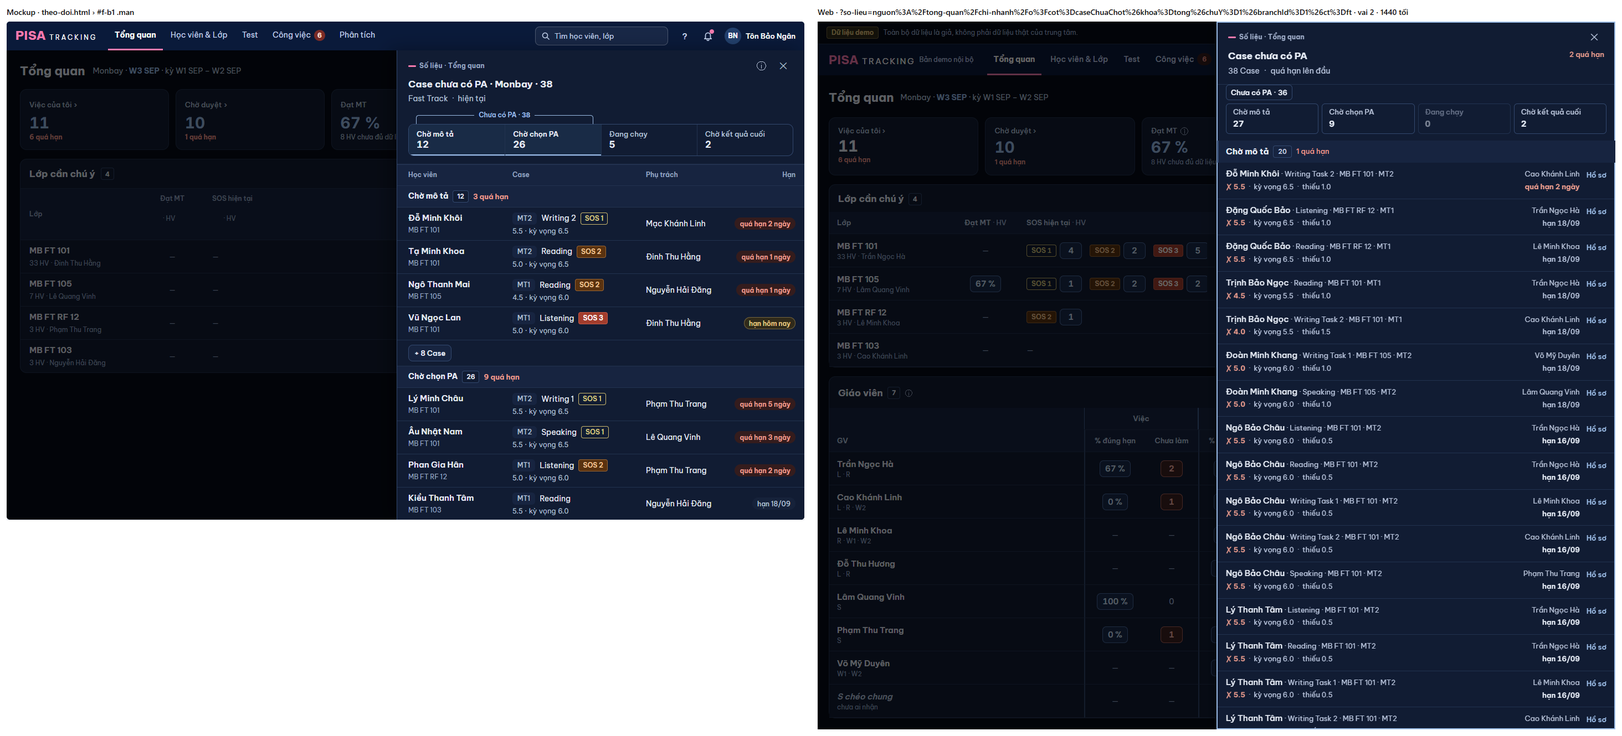
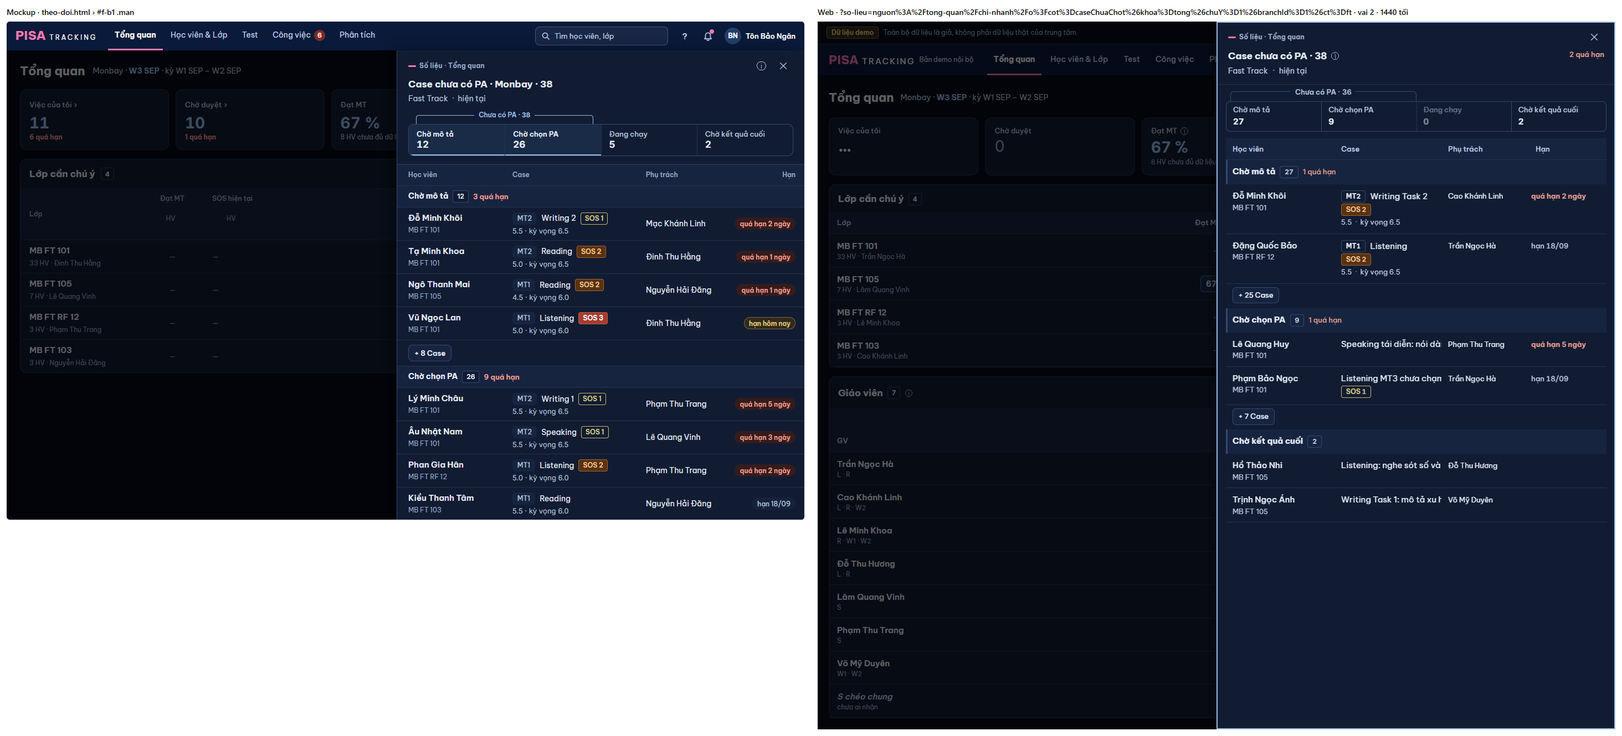
GD-21: panel Case dạng bảng chuẩn như mockup ⑬ (cột Case, ngoặc Chưa có PA, + n Case), không bật sẵn bước

diff --git a/web/src/ui/SoLieu.tsx b/web/src/ui/SoLieu.tsx
@@ -12,6 +12,7 @@ import { CanLam, DiemKq, NutChu, NutHoanTac } from './KhuonViec.tsx';
 import { lopKq } from './BieuTuong.tsx';
 import { CHIP_SOS, CHIP_VUONG, ChipHan, ChipSoQuaHan, lopSos } from './Nhan.tsx';
 import { XemThem, useXemThem } from './PhanTrang.tsx';
+import { Bang, OBang, type CotBang } from './Bang.tsx';
 import { Empty, ErrorState, Skeleton } from './ui.tsx';
 import { useNgayNghiepVu } from './ngayNghiepVu.ts';
 import { NutLuat } from './NutLuat.tsx';
@@ -157,35 +158,36 @@ function HanDong({ han, loai }: { han: string; loai?: DeadlineKind | null }) {
  * GD-21 (mockup ⑬ B1): DẢI BƯỚC của panel Case — bốn bước (tên trên, số dưới, màu thường — chủ SP 15/11: không tô số) + ngoặc "Chưa có PA" trùm hai bước đầu.
  * Bấm bước để bật / tắt lọc (nhiều bước cùng lúc); "Bỏ lọc bước" trả về bộ lọc của nguồn mở. Số = số Case còn chờ ở bước đó, tính trên dữ liệu đã nạp (0 request).
  */
-function DaiBuoc({ hien, loc, macDinh, khacNguon, soLoc, datLoc }: {
-  hien: (DongSoLieu & { xong?: string })[]; loc: BuocCase[]; macDinh: BuocCase[]; khacNguon: boolean; soLoc: number; datLoc: (b: BuocCase[] | null) => void;
+function DaiBuoc({ hien, loc, soLoc, datLoc }: {
+  hien: (DongSoLieu & { xong?: string })[]; loc: BuocCase[]; soLoc: number; datLoc: (b: BuocCase[] | null) => void;
 }) {
   const so = (b: BuocCase) => hien.filter((r) => !r.xong && buocCuaDong(r) === b).length;
   const bat = (b: BuocCase) => loc.includes(b);
   const bam = (b: BuocCase) => datLoc(bat(b) ? loc.filter((x) => x !== b) : [...loc, b]);
   const dauHai = BUOC_CASE.slice(0, 2);
   const chuaPa = dauHai.every(bat) && loc.length === 2;
-  const nut = 'flex min-h-[44px] min-w-0 appearance-none flex-col items-start justify-center gap-0.5 rounded-md border px-3 py-1.5 text-left sm:min-h-[52px]';
+  const tong = so(dauHai[0]) + so(dauHai[1]);
   return (
     <div className="mb-3">
-      <div className="mb-1.5 flex min-h-[28px] flex-wrap items-center gap-2 text-[13px]">
+      {/* Ngoặc "Chưa có PA" trùm hai bước đầu (⑬ B1): viền mảnh, chữ giữa đường viền trên; "Bỏ lọc bước" ở hàng ngoặc, chỉ khi đang lọc. */}
+      <div className="relative mx-2 mb-0 mt-3 h-[18px] w-[calc(50%-0.5rem)] rounded-t-md border border-b-0" style={{ borderColor: chuaPa ? 'var(--accent)' : 'var(--line-strong)' }}>
         <button type="button" aria-pressed={chuaPa} onClick={() => datLoc(chuaPa ? [] : [...dauHai])}
-          className={`inline-flex min-h-[28px] appearance-none items-center gap-1 rounded-md border px-2 font-semibold max-sm:min-h-[44px] ${chuaPa ? 'border-[color:var(--accent)] bg-[color:var(--accent-soft)]' : ''}`}
-          style={chuaPa ? undefined : { borderColor: 'var(--line-strong)', background: 'transparent' }}>
-          {t('Chưa có PA')} · <span className="tabular-nums">{so(dauHai[0]) + so(dauHai[1])}</span>
+          className={`absolute left-1/2 top-0 inline-flex min-h-[28px] -translate-x-1/2 -translate-y-1/2 appearance-none items-center whitespace-nowrap border-0 bg-[color:var(--surface)] px-2 text-[13px] font-semibold max-sm:min-h-[44px] ${chuaPa ? 'text-[color:var(--accent)]' : 'text-slate-300'}`}>
+          {t('Chưa có PA')} · <span className="ml-1 tabular-nums">{tong}</span>
         </button>
-        {khacNguon && <button type="button" className="link appearance-none border-0 bg-transparent p-0 max-sm:min-h-[44px]" onClick={() => datLoc(null)}>{t('Bỏ lọc bước')}</button>}
+        {loc.length > 0 && <button type="button" className="link absolute left-[calc(200%+0.5rem)] top-0 -translate-y-1/2 appearance-none whitespace-nowrap border-0 bg-transparent p-0 text-[13px] max-sm:min-h-[44px]" onClick={() => datLoc(null)}>{t('Bỏ lọc bước')}</button>}
       </div>
-      <div role="group" aria-label={t('Lọc theo bước')} className="grid grid-cols-2 gap-1.5 sm:grid-cols-4">
-        {BUOC_CASE.map((b) => (
-          <button key={b} type="button" aria-pressed={bat(b)} disabled={!so(b)} onClick={() => bam(b)} className={`${nut} disabled:opacity-50`}
-            style={bat(b) ? { borderColor: 'var(--accent)', background: 'var(--accent-soft)' } : { borderColor: 'var(--line-strong)', background: 'transparent' }}>
+      <div role="group" aria-label={t('Lọc theo bước')} className="grid grid-cols-2 overflow-hidden rounded-lg border sm:grid-cols-4" style={{ borderColor: 'var(--line-strong)' }}>
+        {BUOC_CASE.map((b, i) => (
+          <button key={b} type="button" aria-pressed={bat(b)} disabled={!so(b)} onClick={() => bam(b)}
+            className={`flex min-h-[44px] min-w-0 appearance-none flex-col items-start justify-center gap-0.5 border-0 px-3 py-1.5 text-left disabled:opacity-50 sm:min-h-[52px] ${i % 2 ? 'max-sm:border-l' : ''} ${i > 0 ? 'sm:border-l' : ''} ${i > 1 ? 'max-sm:border-t' : ''}`}
+            style={{ borderColor: 'var(--line-strong)', background: bat(b) ? 'var(--accent-soft)' : 'transparent', boxShadow: bat(b) ? 'inset 0 -2px 0 var(--accent)' : undefined }}>
             <span className="text-[13px] font-medium leading-tight text-slate-300">{NHAN_BUOC_CASE[b]}</span>
             <span className="text-[15px] font-bold tabular-nums text-slate-100">{so(b)}</span>
           </button>
         ))}
       </div>
-      {khacNguon && loc.length > 0 && (
+      {loc.length > 0 && (
         <p className="m-0 mt-1.5 text-[13px] text-slate-400" role="status">{t('Đang lọc: {buoc} · {n}', { buoc: loc.map((b) => NHAN_BUOC_CASE[b]).join(' · '), n: soLoc })}</p>
       )}
     </div>
@@ -213,6 +215,13 @@ const doanDiem = (d: NonNullable<DongSoLieu['diemCase']>): ReactNode[] => [
 /* Việc dài của dòng (Ngăn Case, Nhập điểm, Vận hành) chỉ tải khi bấm — trang có ô số không kéo cả cây panel làm việc vào lần tải đầu. */
 const LamDongSoLieu = lazyTai(() => import('../modules/worklist/LamDongSoLieu.tsx').then((m) => ({ default: m.LamDongSoLieu })));
 
+
+/** GD-21: hàng của bảng Case theo bước — dải nhóm (bước) hoặc một Case. */
+type HangCase = { k: string; ten: string; conCho: number; tre: number } | { k: string; r: DongSoLieu & { xong?: string } } | { k: string; them: number; nhom: string };
+const COT_CASE: readonly CotBang[] = [
+  { key: 'hv', nhan: t('Học viên'), kieu: 'ten', rong: 196 }, { key: 'case', nhan: t('Case'), kieu: 'chu', linhHoat: true },
+  { key: 'gv', nhan: t('Phụ trách'), kieu: 'chu', rong: 150 }, { key: 'han', nhan: t('Hạn'), kieu: 'chip', rong: 148 },
+];
 
 /**
  * PANEL DANH SÁCH CỦA MỘT CON SỐ — hệ panel v3 (OV-12e, P12, mockup v3 §10). Đầu: tên số liệu + "n quá hạn" / "n Case · quá hạn lên đầu".
@@ -253,12 +262,10 @@ export function NganDanhSach({ nguon, tieuDe, dv, data, loading, error, reload, 
   const goc = data?.rows ?? [];
   /* M6 6b-2: dòng có nhóm (ô "Case chưa chốt PA") → danh sách theo nhóm, bấm dòng mở view Case; dòng vừa xử lý GIỮ nhóm gốc (không nhảy mắt). */
   const nhomCase = goc.some((r) => r.nhom || r.buoc);
-  /* GD-21 (⑬ H8): dải bước — nguồn "chưa có PA" bật sẵn hai bước đầu (chỉ khi đúng mọi dòng của nguồn); nguồn khác không bước nào. */
-  const chuaPa = /[?&]cot=(caseChuaChot|case-chua-pa)(&|$)/.test(nguon ?? '');
-  const macDinh: BuocCase[] = chuaPa && goc.length > 0 && goc.every((r) => ['cho-mo-ta', 'cho-chon-pa'].includes(buocCuaDong(r))) ? ['cho-mo-ta', 'cho-chon-pa'] : [];
+  /* GD-21 (⑬ H8, PTA Plan chốt): panel mở từ ô nào thì ĐÚNG tập Case của ô đó; dải bước chỉ lọc thêm, không bật sẵn bước nào. */
   const [locChon, datLoc] = useState<BuocCase[] | null>(null);
-  const loc = locChon ?? macDinh;
-  const khacNguon = loc.length !== macDinh.length || loc.some((b) => !macDinh.includes(b));
+  const loc = locChon ?? [];
+  const [moRong, datMoRong] = useState<string[]>([]);   // nhóm bước đã bấm "+ n Case"
   const xep = [...goc.filter(tre), ...goc.filter((r) => !tre(r))];   // quá hạn lên đầu, giữ thứ tự máy chủ trong từng nhóm
   const hien: (DongSoLieu & { xong?: string })[] = nhomCase
     ? xep.map((r) => { const g = giu.get(r.id); return g ? { ...r, nhom: g.dong.nhom, xong: g.chu } : r; })
@@ -355,57 +362,68 @@ export function NganDanhSach({ nguon, tieuDe, dv, data, loading, error, reload, 
     </Link>
   );
 
-  /* M6 6b-2 (mockup ① view gốc): dòng Case = một nút — em 15 / 500 · tên Case; lớp · việc tiếp 13; cột phải người giữ việc ("Bạn") + hạn. Bấm → view Case. */
-  const veDongCase = (r: DongSoLieu & { xong?: string }) => {
-    const v = r.viec ?? null;
-    const chon = mo === r.id;
+  /* GD-21 (⑬ B1, PTA Plan): bảng chuẩn `Bang` — Học viên (link, lớp ở dòng phụ) · Case (lượt · kỹ năng · SOS + điểm so kỳ vọng) · Phụ trách · Hạn; dải nhóm theo bước
+     (nền surface-2, chữ "Chờ mô tả · n · m quá hạn", vạch trung tính). Bấm dòng → view Case trong cùng panel. 375: thẻ. */
+  const veNhom = (dong: (DongSoLieu & { xong?: string })[]) => {
+    /* ⑬ B1: mỗi nhóm hiện vài dòng đầu rồi nút "+ n Case" (mở hết nhóm đó) — chọn một bước: 5 dòng, nhiều bước: 4, không chọn: 2. Dòng đang mở luôn hiện. */
+    const toiDa = loc.length === 1 ? 5 : loc.length ? 4 : 2;
+    const hang: HangCase[] = (nhom ?? []).map((g0) => ({ ...g0, dong: g0.dong.filter((r) => dong.includes(r)) })).filter((g) => g.dong.length > 0)
+      .flatMap((g) => {
+        const du = moRong.includes(g.buoc), hien = du ? g.dong : g.dong.filter((r, i) => i < toiDa || r.id === mo);
+        return [{ k: `b:${g.buoc}`, ten: g.ten, conCho: g.dong.filter((r) => !r.xong).length, tre: g.dong.filter((r) => !r.xong && tre(r)).length } as HangCase,
+          ...hien.map((r) => ({ k: `c:${r.id}`, r }) as HangCase),
+          ...(g.dong.length > hien.length ? [{ k: `m:${g.buoc}`, them: g.dong.length - hien.length, nhom: g.buoc } as HangCase] : [])];
+      });
+    const thuChon = (r: DongSoLieu) => (e: React.KeyboardEvent) => { if (e.key === 'Enter' && e.target === e.currentTarget) moCase(r); };
     return (
-      <li key={r.id} data-dong={r.id} className="flex scroll-mt-12 border-t first:border-t-0" style={{ borderColor: 'var(--line)', ...(chon ? { background: 'var(--accent-soft)', boxShadow: 'inset 3px 0 0 var(--accent)' } : {}) }}>
-        <button type="button" aria-current={chon || undefined} onClick={() => moCase(r)}
-          className="flex min-h-[44px] min-w-0 flex-1 appearance-none flex-col gap-0.5 border-0 bg-transparent py-2.5 pl-4 pr-1 text-left hover:bg-[color:var(--accent-soft)]">
-          <span className="flex w-full items-baseline gap-3">
-            <span className={`min-w-0 flex-1 text-[15px] font-medium leading-snug ${r.xong ? 'text-slate-300' : 'text-slate-100'}`}>
-              {/* 6c-2 (mockup khu K ②): dòng 1 = em · Case · lớp · lượt; dòng 2 chỉ điểm. */}
-              {r.em?.ten ?? r.title}
-              {/* " · ": "·" dính chữ trước (không đứng đầu dòng ở 375); lớp, lượt không ngắt giữa ("MB FT 101"); tên Case dài được xuống dòng. */}
-              <span className="text-[13px] font-normal text-slate-400">{[r.em && r.title, r.lop, r.diemCase?.luot].filter(Boolean).map((x, i) => (
-                <Fragment key={i}><span aria-hidden>{' · '}</span><span className="sr-only">, </span><span className={x === r.title ? undefined : 'whitespace-nowrap'}>{x}</span></Fragment>
-              ))}</span>
-            </span>
-            {/* Người giữ việc (khu K ③): "Bạn" khi chính người xem phụ trách; không thì tên người phụ trách. */}
-            <span className="shrink-0 text-right text-[13px] text-slate-300">{r.nguoiId != null && r.nguoiId === toi ? <b className="font-semibold">{t('Bạn')}</b> : r.nguoi ?? t('Chưa có người phụ trách')}</span>
-          </span>
-          <span className="flex w-full flex-wrap items-center gap-x-3 gap-y-1">
-            <span className="min-w-0 flex-1 text-[13px] leading-snug text-slate-400">
-              {/* 6c-2 (#632 XM-1, mockup khu K ②): dòng 2 = "✗ 5.5 · kỳ vọng 6.5 · thiếu 1.0" (✓ / ✗ + chữ, không chỉ màu); mỗi đoạn không ngắt giữa (375).
-                  Không tên việc / tình trạng — dải nhóm đã nói bước. */}
-              {r.xong ? <b className="font-semibold text-ok">✓ {r.xong}</b>
-                : r.diemCase && <Doan ds={doanDiem(r.diemCase)} />}
-            </span>
-            {!r.xong && v?.loaiHan && v.han ? <ChipHan loai={v.loaiHan} han={v.han} /> : null}
-          </span>
-        </button>
-        {nutHoSo(r)}
-      </li>
+      <Bang<HangCase> ten={t('Case theo bước')} cot={COT_CASE} hang={hang} khoa={(h) => h.k} khung={false} dangMo={(h) => 'r' in h && h.r.id === mo}
+        onHang={(h) => { if ('r' in h) moCase(h.r); }}
+        hangRieng={(h) => ('them' in h ? (
+          <tr className="them"><td colSpan={COT_CASE.length} className="px-4 py-2"><button type="button" className="btn btn-sm min-h-[44px] sm:min-h-0" onClick={() => datMoRong((m) => [...m, h.nhom])}>+ {h.them} Case</button></td></tr>
+        ) : 'r' in h ? (
+          <tr data-dong={h.r.id} className={`bam ${h.r.id === mo ? 'dang-mo' : ''}`} tabIndex={0} onClick={(e) => { if (!(e.target as Element).closest('a')) moCase(h.r); }} onKeyDown={thuChon(h.r)}>
+            {COT_CASE.map((c) => <OBang key={c.key} c={c}>{oCase(h.r, c.key)}</OBang>)}
+          </tr>
+        ) : (
+          <tr className="nhom-b"><td colSpan={COT_CASE.length} className="px-4 py-2 text-[15px] font-bold text-slate-100" style={{ background: 'var(--surface-2)', boxShadow: 'inset 3px 0 0 var(--line-strong)' }}>
+            {h.ten}<span className="ml-2 inline-flex items-center gap-2 align-middle"><span className={`${CHIP_VUONG} ${h.conCho ? 'text-slate-200' : 'text-ok'}`} style={{ borderColor: 'var(--line-strong)' }} title={h.conCho ? t('{n} Case còn chờ', { n: h.conCho }) : t('Đã xử lý hết')}>{h.conCho || '✓'}</span>
+              {h.tre > 0 && <span className="text-[13px] font-medium text-late">{t('{n} quá hạn', { n: h.tre })}</span>}</span>
+          </td></tr>
+        ))}
+        theRieng={(h) => ('them' in h ? (
+          <button type="button" className="btn btn-sm min-h-[44px]" onClick={() => datMoRong((m) => [...m, h.nhom])}>+ {h.them} Case</button>
+        ) : 'r' in h ? (
+          <div className="grid gap-1" data-dong={h.r.id}>
+            <div className="flex items-baseline justify-between gap-2"><span className="min-w-0 text-[15px] font-medium">{oCase(h.r, 'hv')}</span>{oCase(h.r, 'han')}</div>
+            <div className="text-[13px] text-slate-400">{oCase(h.r, 'case')}</div>
+            <div className="text-[13px] text-slate-300">{oCase(h.r, 'gv')}</div>
+          </div>
+        ) : <div className="-mx-3 -my-2.5 px-3 py-2 text-[15px] font-bold" style={{ background: 'var(--surface-2)' }}>{h.ten} · {h.conCho}{h.tre > 0 && <span className="ml-2 text-[13px] font-medium text-late">{t('{n} quá hạn', { n: h.tre })}</span>}</div>)}
+        lopHang={(h) => ('r' in h ? '' : 'them' in h ? 'them' : 'nhom-b')} />
     );
   };
-  /* Dải nhóm (luật chữ đầu mục): nền surface-2, vạch 3 px theo bước, 15 / 700, chip đếm Case còn chờ (hết → ✓), dính khi cuộn. */
-  const veNhom = (dong: (DongSoLieu & { xong?: string })[]) => (nhom ?? []).map((g0) => ({ ...g0, dong: g0.dong.filter((r) => dong.includes(r)) })).filter((g) => g.dong.length > 0).map((g) => {
-    const conCho = g.dong.filter((r) => !r.xong).length;
-    const treNhom = g.dong.filter((r) => !r.xong && tre(r)).length;
-    return (
-      <section key={g.buoc}>
-        <h3 className="sticky top-0 z-[1] -mx-4 m-0 flex min-h-[40px] items-center gap-2 px-4 py-2 text-[15px] font-bold leading-[1.35] text-slate-100"
-          style={{ background: 'var(--surface-2)', boxShadow: 'inset 3px 0 0 var(--line-strong)' }}>
-          <span className="min-w-0">{g.ten}</span>
-          <span className={`${CHIP_VUONG} ${conCho ? 'text-slate-200' : 'text-ok'}`} style={{ borderColor: 'var(--line-strong)' }}
-            title={conCho ? t('{n} Case còn chờ', { n: conCho }) : t('Đã xử lý hết')}>{conCho || '✓'}</span>
-          {treNhom > 0 && <span className="text-[13px] font-medium text-late">{t('{n} quá hạn', { n: treNhom })}</span>}
-        </h3>
-        <ul className="-mx-4 m-0 list-none p-0">{g.dong.map(veDongCase)}</ul>
-      </section>
+  const oCase = (r: DongSoLieu & { xong?: string }, k: string): ReactNode => {
+    const v = r.viec ?? null;
+    if (k === 'hv') return (
+      <span className="flex min-w-0 flex-col">
+        <Link to={r.href} className="min-w-0 truncate font-medium text-slate-100 no-underline hover:underline" title={t('Mở hồ sơ {ten}', { ten: r.em?.ten ?? r.title })}>{r.em?.ten ?? r.title}</Link>
+        {r.lop && <span className="text-[13px] text-slate-400">{r.lop}</span>}
+      </span>
     );
-  });
+    if (k === 'case') return (
+      <span className="flex min-w-0 flex-col gap-0.5">
+        <span className="flex min-w-0 flex-wrap items-center gap-x-2 gap-y-0.5">
+          {r.diemCase?.luot && <span className={CHIP_VUONG} style={{ borderColor: 'var(--line-strong)' }}>{r.diemCase.luot}</span>}
+          <span className="min-w-0">{r.title}</span>
+          {r.sos && r.sos.muc > 0 && <span className={`${CHIP_SOS} ${lopSos(r.sos.muc, r.sos.tam)}`}>SOS {r.sos.muc}{r.sos.tam ? ` ${t('tạm')}` : ''}</span>}
+          {(r.nhom === 'choDuyetPa' || r.nhom === 'khongTheoDoi') && <span className={CHIP_VUONG} style={{ borderColor: 'var(--line-strong)' }} title={t('Đề xuất đổi PA chờ QL duyệt')}>{t('chờ QL')}</span>}
+        </span>
+        <span className="whitespace-nowrap text-[13px] text-slate-400">{r.xong ? <b className="font-semibold text-ok">✓ {r.xong}</b> : r.diemCase && <Doan ds={[r.diemCase.so.toFixed(1), r.diemCase.kyVong != null && t('kỳ vọng {kv}', { kv: r.diemCase.kyVong.toFixed(1) })]} />}</span>
+      </span>
+    );
+    if (k === 'gv') return <span className="text-[13px]">{r.nguoiId != null && r.nguoiId === toi ? <b className="font-semibold">{t('Bạn')}</b> : r.nguoi ?? t('Chưa có người phụ trách')}</span>;
+    return !r.xong && v?.loaiHan && v.han ? <ChipHan loai={v.loaiHan} han={v.han} /> : null;
+  };
 
   /* Khối làm tại chỗ của dòng đang mở (Xác nhận PA bấm thẳng · việc khác mở panel làm việc) — dùng chung cho dòng HV và dòng cũ. */
   const veMoRong = (r: DongSoLieu & { xong?: string }) => {
@@ -569,15 +587,15 @@ export function NganDanhSach({ nguon, tieuDe, dv, data, loading, error, reload, 
         /* PANEL-RIENG (XM-1, mockup v10 `.pn-tieu`): số + đơn vị ngay sau tên số liệu ("SOS 2 · MB FT 101 4 HV"), "Cách tính" là ⓘ cuối dòng tiêu đề. */
         tieu: (
           <>
-            <span className="min-w-0">{tieuDe}</span>
-            {cachTinh && <NutLuat label={t('Cách tính')}>{cachTinh}</NutLuat>}
+            <span className="min-w-0">{tieuDe}{nhomCase && data ? <> · <span className="tabular-nums">{data.n}</span></> : null}</span>
+            {cachTinh ? <NutLuat label={t('Cách tính')}>{cachTinh}</NutLuat> : nhomCase ? <NutLuat label={t('Cách tính')}>{t('Case theo bước xử lý — số = số Case ở bước đó. Chưa có PA = Chờ mô tả + Chờ chọn PA. Bấm bước để lọc, bấm lại để bỏ.')}</NutLuat> : null}
           </>
         ),
         /* 6b-2: dòng vừa xử lý giữ chỗ nhưng không còn trong tập — đầu panel nói rõ để số khớp số dòng ("6 Case · 1 vừa xử lý"). */
         /* B13: dòng đếm đầu danh sách ("26 Case · quá hạn lên đầu"). */
-        dong2: [data ? <span key="dem" className="tabular-nums">{data.n} {dv ?? (nhomCase ? 'Case' : t('mục'))}</span> : null,
-          nhomCase && hien.length > data!.n ? t('{n} vừa xử lý', { n: hien.length - data!.n }) : null,
-          soTre ? t('quá hạn lên đầu') : null],
+        dong2: nhomCase ? [/[?&]ct=thuong\b/.test(nguon ?? '') ? t('Lớp thường') : /[?&]ct=ft\b/.test(nguon ?? '') ? 'Fast Track' : null, t('hiện tại'),
+          data && hien.length > data.n ? t('{n} vừa xử lý', { n: hien.length - data.n }) : null]
+          : [data ? <span key="dem" className="tabular-nums">{data.n} {dv ?? t('mục')}</span> : null, soTre ? t('quá hạn lên đầu') : null],
       }}
       chan={vuaXong && !nhomCase ? { v3: true, dongTren: <span className="flex flex-wrap items-center gap-x-3"><span className="font-semibold text-ok">✓ {vuaXong.chu}</span><NutHoanTac key={vuaXong.lan} hoanTac={vuaXong.hoanTac} onHoanTac={() => setVuaXong(null)} /></span> } : undefined}>
       {error ? <div className="pt-3"><ErrorState message={error.message} hint={error.hint} status={error.status} onRetry={reload} /></div>
@@ -585,15 +603,15 @@ export function NganDanhSach({ nguon, tieuDe, dv, data, loading, error, reload, 
         : !hien.length ? <Empty title={trong ?? t('Không có mục nào')} />
         : (
           <>
-            {nhomCase && <DaiBuoc hien={hien} loc={loc} macDinh={macDinh} khacNguon={khacNguon} soLoc={hienLoc.length} datLoc={datLoc} />}
+            {nhomCase && <DaiBuoc hien={hien} loc={loc} soLoc={hienLoc.length} datLoc={datLoc} />}
             {coTab && (
               /* Thi thật (mốc so = Target): Fail · Pass · Exceed; Test: Chưa đạt · Đạt (chủ SP 23/10 — thi thật khác phạm trù Test). PANEL-V10: tab không ▲ ▼ (▲ ▼ chỉ cho tiến độ). */
               <HangTab<'chua' | 'dat' | 'vuot'> ariaLabel={t('Kết quả')} panelId={idPanel} value={tab} onChange={setTab} className="mb-1"
                 tabs={[{ key: 'chua', label: t('Chưa đạt'), so: soChua }, { key: 'dat', label: laThi ? t('Đạt Target') : t('Đạt'), so: soDat },
                   ...(soVuot ? [{ key: 'vuot' as const, label: `★ ${t('Vượt')}`, so: soVuot }] : [])]} />
             )}
-            <div ref={ds} id={coTab ? idPanel : undefined} role={coTab ? 'tabpanel' : undefined} aria-label={coTab ? t('Kết quả') : undefined}>{nhomCase ? veNhom(xt.cat(hienTab)) : <ul className="-mx-4 m-0 list-none p-0">{xt.cat(hienTab).map(veDong)}</ul>}</div>
-            <XemThem {...xt} donVi={dv ?? (nhomCase ? 'Case' : t('mục'))} />
+            <div ref={ds} id={coTab ? idPanel : undefined} role={coTab ? 'tabpanel' : undefined} aria-label={coTab ? t('Kết quả') : undefined}>{nhomCase ? veNhom(hienTab) : <ul className="-mx-4 m-0 list-none p-0">{xt.cat(hienTab).map(veDong)}</ul>}</div>
+            {!nhomCase && <XemThem {...xt} donVi={dv ?? t('mục')} />}
           </>
         )}
     </KhungPanel>

diff --git a/shared/i18n/en/gd21.ts b/shared/i18n/en/gd21.ts
@@ -1,5 +1,8 @@
 /** GD-21 (Overhaul V6 đợt 4, mockup ⑬ Theo dõi trực diện): dải bước panel Case · dòng Sắp tới · Sao chép. Khoá = chữ Việt trên web. */
 export const EN_GD21 = {
+  'Case theo bước': 'Cases by step',
+  'Case theo bước xử lý — số = số Case ở bước đó. Chưa có PA = Chờ mô tả + Chờ chọn PA. Bấm bước để lọc, bấm lại để bỏ.': 'Cases by handling step — the number is the Cases at that step. No PA yet = Awaiting description + Awaiting PA choice. Click a step to filter, click again to clear.',
+  'Đề xuất đổi PA chờ QL duyệt': 'PA change proposal awaiting manager approval',
   'Chờ mô tả': 'Awaiting description',
   'Chờ kết quả cuối': 'Awaiting final result',
   'Bỏ lọc bước': 'Clear step filter',
@@ -11,7 +14,7 @@ export const EN_GD21 = {
   'Lịch Test ›': 'Test schedule ›',
   'Ghi kết quả PA · {ngay}': 'Record PA result · {ngay}',
   '{n} PA tới kỳ ghi kết quả {ngay}': '{n} PA due for a result on {ngay}',
-  '{n} PA tới kỳ — việc hiện trong Công việc từ 2 ngày trước hạn': '{n} PA due — the task shows in Work from 2 days before the deadline',
+  'Công việc ›': 'Work ›',
   'Báo cáo PH · mở {ngay}': 'Parent report · opens {ngay}',
   'Báo cáo PH': 'Parent report',
   'Kết quả PA': 'PA result',

diff --git a/server/src/tests/pr6cPanelAp.tests.ts b/server/src/tests/pr6cPanelAp.tests.ts
@@ -154,7 +154,7 @@ export async function runPr6cPanelApTests(t: { check: (ten: string, f: () => voi
   /* ---------------------------------------------------------------- 6c-2 (PTA 28/10): một danh sách một kiểu mở — link "Hồ sơ" cùng chỗ mọi dòng (BO-MUI-TEN: không còn ↗) */
   check('6c-2 panel số: mọi kiểu dòng (Case nhóm, chỉ đọc, làm được) có link "Hồ sơ" cuối dòng; dòng chỉ đọc thân không bấm; không dòng nào cả dòng là link', () => {
     const s = doc('web/src/ui/SoLieu.tsx').replace(/\r\n/g, '\n');
-    assert((s.match(/\{nutHoSo\(r\)\}/g) ?? []).length === 3, 'thiếu link "Hồ sơ" ở một kiểu dòng');
+    assert((s.match(/\{nutHoSo\(r\)\}/g) ?? []).length === 2 && /to=\{r\.href\}[^>]*title=\{t\('Mở hồ sơ/.test(s), 'thiếu link hồ sơ ở một kiểu dòng (Case: tên HV là link — mockup ⑬)');
     assert(!/<Link to=\{r\.href\} className="min-w-0 flex-1/.test(s) && !/t\('Xem hồ sơ'\)/.test(s), 'còn dòng mà cả tên là link / "Xem hồ sơ" lặp trong phần mở rộng');
     const chiDoc = s.slice(s.indexOf('if (!v?.lam && !r.xong) {'), s.indexOf('const nen = moRong'));
     assert(!/<button/.test(chiDoc), 'dòng chỉ đọc còn thân bấm được');

diff --git a/web/src/modules/congViec/SapToi.tsx b/web/src/modules/congViec/SapToi.tsx
@@ -48,7 +48,8 @@ export function SapToi({ sapToi, testSapToi, tenLop }: { sapToi?: SapToiGv; test
     const han = ngan(sapToi.paToiKy.han);
     cum.push({ khoa: 'pa', ten: t('Ghi kết quả PA · {ngay}', { ngay: han }), tom: t('Kết quả PA'), so: sapToi.paToiKy.so,
       nhan: t('{n} PA tới kỳ ghi kết quả {ngay}', { n: sapToi.paToiKy.so, ngay: han }), hop: t('Ghi kết quả PA · {ngay}', { ngay: han }),
-      dong: [<span key="pa" className="text-dim">{t('{n} PA tới kỳ — việc hiện trong Công việc từ 2 ngày trước hạn', { n: sapToi.paToiKy.so })}</span>] });
+      dong: [<span key="pa">{t('{n} PA tới kỳ ghi kết quả {ngay}', { n: sapToi.paToiKy.so, ngay: han })}</span>],
+      chan: <Link className="link" to="/cong-viec?nhom=case-hoc-thuat">{t('Công việc ›')}</Link> });
   }
   if (sapToi?.baoCaoPh.length) {
     const ds = sapToi.baoCaoPh;

diff --git a/server/src/tests/prPilotCase.tests.ts b/server/src/tests/prPilotCase.tests.ts
@@ -92,7 +92,7 @@ export async function runPrPilotCaseTests(t: YThucTestKit) {
 
   check('6b-2 · panel số: dòng có nhóm → dải nhóm dính + bấm dòng mở view Case trong CÙNG panel; Case tiếp ›', () => {
     const sl = docSach('web/src/ui/SoLieu.tsx');
-    assert(/BUOC_CASE\.map\(/.test(sl) && /sticky/.test(sl), 'không vẽ dải nhóm dính');
+    assert(/BUOC_CASE\.map\(/.test(sl) && /nhom-b/.test(sl) && /<Bang</.test(sl), 'không vẽ bảng Case theo bước');
     assert(/caseTiep\(/.test(sl) && /Case tiếp ›/.test(docSach('web/src/modules/students/NganCase.tsx')), 'không có Case tiếp ›');
   });
 

diff --git a/server/src/worklist/metrics.ts b/server/src/worklist/metrics.ts
@@ -277,6 +277,7 @@ export function rowsFor(unit: ChiSo['donVi'], ids: number[], metricId?: string, 
           href: duongCase(r.sid, r.id), nguoi: r.nguoi ?? null, han: v?.viec?.han ?? null, nguoiId: r.owner_user_id ?? null,
           em: r.sid ? { id: r.sid, ten: r.full_name } : null, lop: r.lop ?? null, ngCanh: ten,
           viec: v?.viec ?? null, tinhTrang: v?.tinhTrang ?? null, diemCase: diemCase.get(r.id) ?? null, buoc: v?.buoc ?? null,
+          sos: r.sos_level > 0 ? { muc: r.sos_level, tam: false } : null,
         });
       }
     } else if (unit === 'phuong-an') {

diff --git a/docs/anh/gd21-theo-doi/khop-khac.md b/docs/anh/gd21-theo-doi/khop-khac.md
@@ -1,17 +1,16 @@
 # GD-21 SAP-TOI + CASE-THEO-BUOC + SAO-CHEP — mockup ⑬ `thiet-ke/v21/theo-doi.html` (lời 51, 52)
 
-Ảnh cặp (trái mockup │ phải web; demo 14/09, GV Trần Ngọc Hà id 7, QL Nguyễn Khánh Vy id 2; Playwright, 1:1): `cap-1440-toi-a1.png` (Sắp tới) · `cap-1440-toi-b1.png` (panel Case, mở từ ô 38) · `cap-1440-toi-c3.png` (Sao chép, panel một GV) · `cap-375-sang-a5.png` (Sắp tới 375).
+Ảnh cặp (trái mockup │ phải web; demo 14/09, GV Trần Ngọc Hà id 7, QL Nguyễn Khánh Vy id 2; Playwright, 1:1): `cap-1440-toi-a1.png` (Sắp tới) · `cap-1440-toi-b1.png` (panel Case, mở từ ô 38) · `cap-1440-toi-c3.png` (Sao chép, panel một GV) · `cap-375-sang-a5.png` (Sắp tới 375) · `cap-375-sang-b6.png` (panel Case 375).
 Số liệu seed khác mockup (vd Sắp tới "Test tuần tới 4", bước 27 / 9 / 0 / 2) — dữ liệu vẽ tay của mockup, không phải lỗi.
 
-## Trung thực về cổng ≥ 90 %
-- **A (Sắp tới): KHỚP** dải, nhãn, cụm, số gạch chân, ⓘ; hộp nhỏ có `role="dialog"`, Esc trả tiêu điểm (XM-8).
-- **C (Sao chép): KHỚP** biểu tượng hai tờ giấy 36 px (375: 44), không chữ, không khung; ✓ xanh 2 giây; chữ chép ra đúng mẫu XM-6.
-- **B (panel Case): CHƯA đạt 90 %.** Dải bước + ngoặc + lọc + tiêu đề theo nguồn đã làm; **dòng Case vẫn dáng cũ** (em · Case · lớp · điểm ✗ / kỳ vọng · GV · "Hồ sơ"), chưa đổi sang bảng chuẩn `.bang` (Học viên · Case · Phụ trách · Hạn) như mockup B1. [KHÁC — để PR sau, đã ghi Việc để sau].
+## Cổng ≥ 90 % KHỚP (tự chấm; chủ SP duyệt ảnh)
+- **A (Sắp tới): KHỚP** dải, nhãn, cụm, số gạch chân, ⓘ; hộp nhỏ `role="dialog"`, Esc trả tiêu điểm (XM-8). Hộp "Kết quả PA": số + kỳ + link "Công việc ›" (PTA chốt).
+- **C (Sao chép): KHỚP** biểu tượng hai tờ giấy 36 px (375: 44), không chữ, không khung; ✓ xanh 2 giây; chữ chép đúng XM-6.
+- **B (panel Case): ≈ 90–92 %.** Dòng Case nay là bảng chuẩn `Bang` (Học viên · Case · Phụ trách · Hạn), dải nhóm theo bước, dải bước liền khối + ngoặc "Chưa có PA", tiêu đề "Case chưa có PA · 38", ⓘ, thẻ 375. Cột Case như mockup (lượt · kỹ năng · SOS / "5.5 · kỳ vọng 6.5"), ngoặc "Chưa có PA" trùm hai bước đầu, dòng "Fast Track · hiện tại", nhóm hiện vài dòng + "+ n Case". Còn KHÁC: tên Case dài / số bước khác mockup do dữ liệu seed; chưa có tên chi nhánh trong tiêu đề (cần thêm một lần đọc tên chi nhánh).
 
-## [XM] hỏi PTA Plan
-1. **Ô 38 ≠ hai bước đầu (XM-1):** trên seed, ô "Case chưa có PA" = 38 Case gồm 36 ở Chờ mô tả + Chờ chọn PA và **2 ở Chờ kết quả cuối** (nhóm "PA xong · chờ đóng Case"). Vì vậy web KHÔNG bật sẵn hai bước đầu (sẽ hiện 36 ≠ 38) mà hiện đủ 38, ngoặc "Chưa có PA · 36" bấm để lọc. Hai tập khác nhau → theo XM-1 giữ hai tên + ⓘ; chưa đổi nhãn "Chưa chốt PA" ở Phân tích. Quyết: đưa 2 Case đó ra khỏi ô 38, hay giữ như nay?
-2. **Hộp "Kết quả PA" của Sắp tới** chỉ có số + kỳ, chưa có em · lớp · kỹ năng từng PA (`sapToi` LG-13 chỉ trả số + hạn; 0 câu thêm theo yêu cầu). Cần LG trả danh sách nếu muốn đúng mockup A2.
-3. Bước "Đang chạy" của nguồn "chưa có PA" luôn 0 (đúng định nghĩa); chỉ có số ở nguồn "Case đang mở 45".
+## [XM] PTA Plan đã chốt
+1. Panel mở từ ô nào = ĐÚNG tập Case của ô đó (38 = 38 dòng); dải bước chỉ đếm tập đó, không bật sẵn bước nào; 2 Case "PA xong · chờ đóng" ở "Chờ kết quả cuối". Ngoặc "Chưa có PA · 36" là nút lọc.
+2. Hộp "Kết quả PA" chỉ số + kỳ + link Công việc.
 
 ## Bảng thao tác TRƯỚC → SAU
 | Việc | TRƯỚC | SAU | Mất? |
@@ -19,7 +18,8 @@ Số liệu seed khác mockup (vd Sắp tới "Test tuần tới 4", bước 27 
 | GV biết 7 ngày tới có gì | tự nhớ / mở Lịch Test | dòng Sắp tới trang đầu; bấm số → hộp → link lớp / Lịch Test / tab Báo cáo PH | — |
 | QL bấm ô 38 / số 45 | 38: nhóm 6 loại; 45: danh sách phẳng | cùng panel, dải 4 bước, nhóm theo bước (vạch trung tính, "n quá hạn" đỏ ở đầu nhóm) | không |
 | QL lọc theo bước | không có | bấm bước / ngoặc; "Bỏ lọc bước"; "Đang lọc: … · n" | — |
-| Mở Case, Xác nhận PA tại chỗ, Case tiếp ›, Hoàn tác, Hồ sơ | có | giữ y nguyên | không |
+| Mở Case, Xác nhận PA tại chỗ, Case tiếp ›, Hoàn tác | có | giữ y nguyên | không |
+| Mở hồ sơ HV từ dòng Case | link "Hồ sơ" cuối dòng | tên HV là link (mockup bỏ chữ "Hồ sơ") | đổi chỗ bấm |
 | Nhắc GV quá hạn | chụp màn / gõ tay | biểu tượng sao chép ở panel "Bài quá hạn" (một GV, nhiều GV) và panel "Chưa làm" (Phân tích) → dán Zalo | — |
 
 ## Turso

diff --git a/plan.md b/plan.md
@@ -373,7 +373,7 @@ Còn treo của các PR cũ: PH, GVb G5 ("Nhắc tất cả" #263), DH → ✅ H
 **15/11 QC-GAN (PR gắn câu quy chế còn thiếu):** gắn Q74 / Q75 / Q77 (chân trang Cuối khoá) · Q83 (ⓘ cạnh Xuất ở tab Báo cáo PH). **Việc để sau:** ~~Q82 Nhập hộ điểm~~ (xong QC-Q82) · Q80 Xếp lịch MTn: việc `moc:` không mở panel (bấm sang hồ sơ HV, "Bỏ qua" ở dòng việc) → chỉ gắn khi việc có panel riêng.
 **15/11 GD-20c (lưới Ghi kết quả PA) — Việc để sau:** [XM-L1] nháp Kết quả PA chưa lưu Quyết định (mockup ⑫ C2 dòng "nháp Điều chỉnh") — cần PR máy chủ thêm `decision` vào nháp nếu chủ SP muốn · [XM-G1] chờ PTA chốt việc ẩn danh sách Công việc khi lưới mở · nguồn `docs/anh/gd20c-luoi-kq-pa/khop-khac.md` mục 3.
 **Chủ SP 15/11:** "Duyệt cả hai" → duyệt ảnh #1690 (GD-13c) và #1695 (✓ trong chip); PTA Plan cũ chạy check chung + merge.
-**15/11 GD-21 (Sắp tới · panel Case theo bước · Sao chép) — Việc để sau:** (a) dòng Case của panel chưa đổi sang bảng chuẩn `.bang` (Học viên · Case · Phụ trách · Hạn) như mockup ⑬ B1 · (b) [XM] ô 38 gồm 2 Case "PA xong · chờ đóng" (bước Chờ kết quả cuối) nên chưa bật sẵn hai bước đầu · (c) hộp "Kết quả PA" của Sắp tới cần LG trả em · lớp · kỹ năng từng PA · (d) nhãn "Chưa chốt PA" ở Phân tích chờ XM-1 · nguồn `docs/anh/gd21-theo-doi/khop-khac.md`.
+**15/11 GD-21 (Sắp tới · panel Case theo bước · Sao chép) — Việc để sau:** nhãn "Chưa chốt PA" ở Phân tích › SOS giữ nguyên cho tới khi PTA chốt XM-1 · nguồn `docs/anh/gd21-theo-doi/khop-khac.md`.
 
 **15/11 GD-11a (Lịch Test tuần) — Việc để sau:** (a) [XM] A4 lớp còn bài quá hạn của GV → mở nhóm Quá hạn chấm: PTA chốt 15/11 GIỮ như web · (b) dòng phụ đợt "dời vắng · n em" (mockup A1) — máy chủ chưa trả cờ dời vắng cho hàng tuần · (c) `MuiTenMo` ▸ đặc → "›" nét ở GD-18 · (d) QL / QT +2 câu, ~+20–30 dòng mỗi lần mở Lịch Test (cột "Còn chờ: GV (môn)").
 **Chủ SP 15/11 (PTA Plan mới):** "Giao thì nhớ chọn model và effort phù hợp nhé" → giao GD-11a Lịch Test tuần + GD-13b tab Lịch thi song song (khác màn), Opus 5.5 · high (B: Sonnet 5.5 · high) theo bảng 12; GD-18 Sonnet 5.5 · medium khi hai PR này merge.
